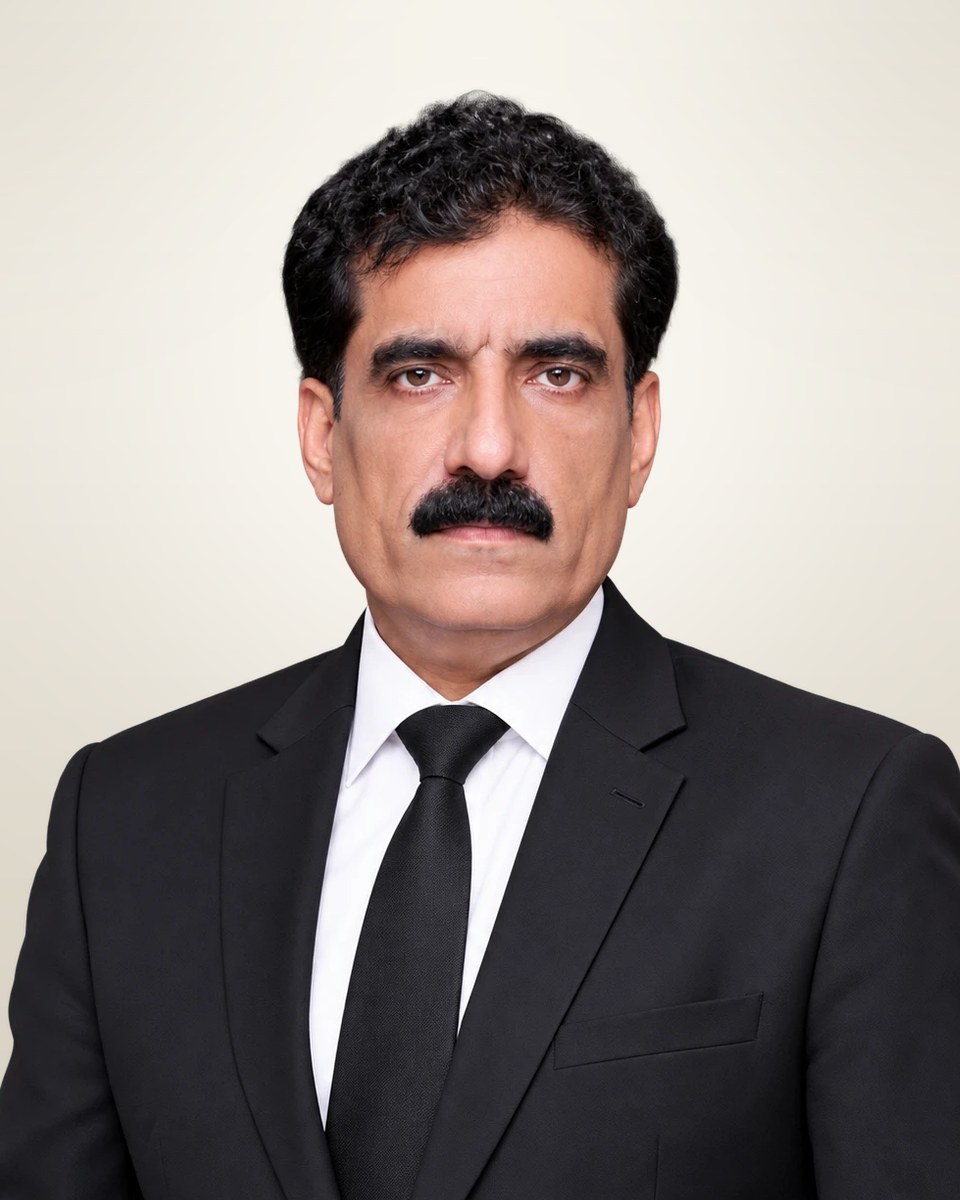
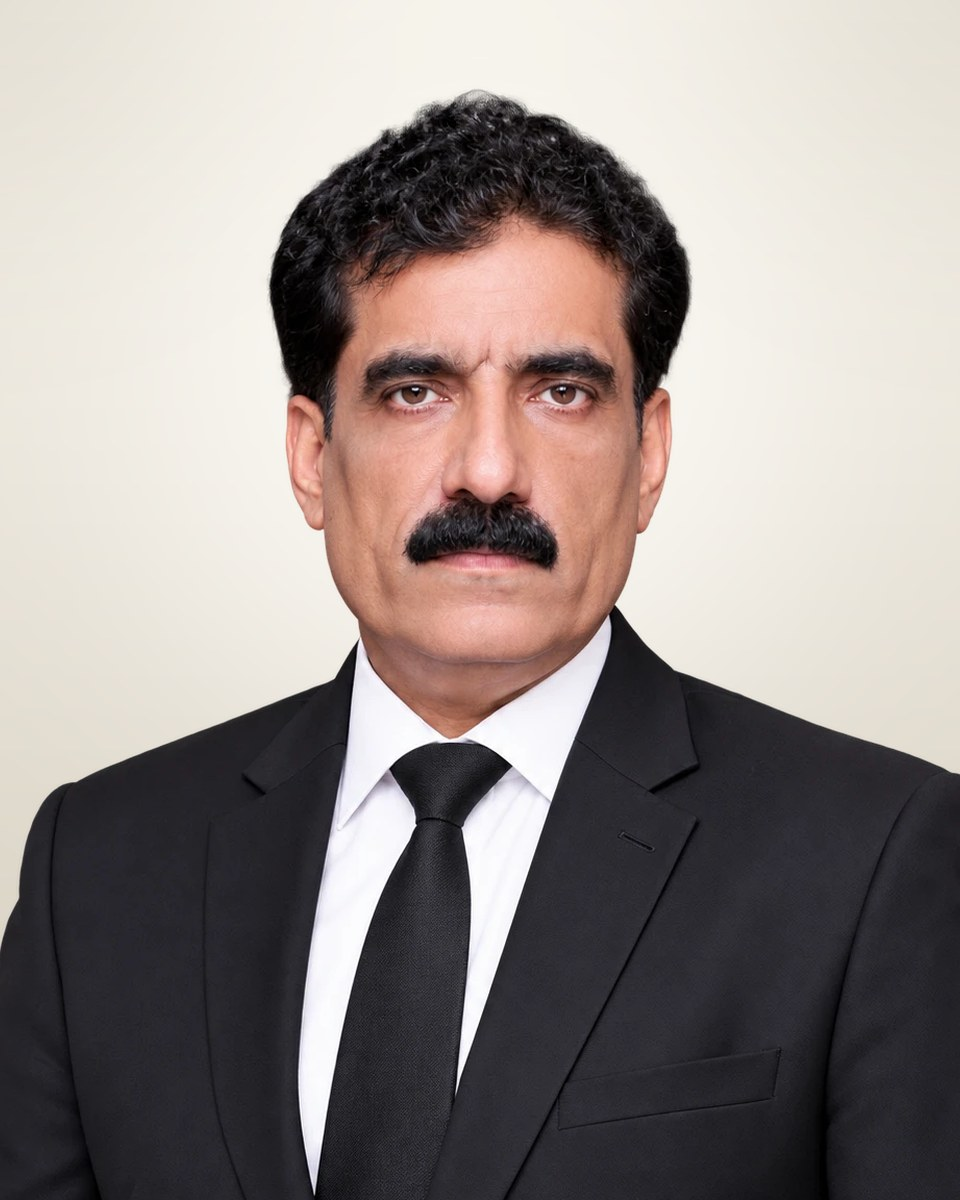
Even out portrait head size and add the pending advocate as a draft
Claude-Session: https://claude.ai/code/session_01M9TFTMe9SzZUtDGe2tVLiv

diff --git a/royal-vision-law/elementor-team-photos.php b/royal-vision-law/elementor-team-photos.php
@@ -1,8 +1,9 @@
 <?php
 /**
  * Team portraits for royalvisionlaw.com.
- * Sideloads the four advocate portraits in team-photos/ (720x900, one shared format),
- * creates or updates their Team members (position "Advocate"), lets the homepage show
+ * Sideloads the advocate studio portraits in team-photos/ (960x1200, one shared ivory
+ * backdrop made by team-photos/compose.py), creates or updates their Team members
+ * (position "Advocate"), replaces any earlier portrait, lets the homepage show
  * up to 8 members, and sets the team grid to three cards per row with aligned buttons.
  * Run after elementor-law-premium.php (needs sandbox/rvl-team.php active). Safe to re-run.
  */
@@ -17,26 +18,30 @@ $members = array(
 	array( 'Younis Amin', 'younis-amin', 4 ),
 	array( 'Shahid Amin', 'shahid-amin', 5 ),
 	array( 'Rana Tahir Mehmood', 'rana-tahir-mehmood', 6 ),
+	array( 'Advocate (name pending)', 'advocate-pending', 7, 'draft' ), // Publish once the name is set.
 );
 $out = array();
 foreach ( $members as $m ) {
 	list( $name, $slug, $order ) = $m;
-	$ex = get_posts( array( 'post_type' => 'rvl_team', 'title' => $name, 'post_status' => 'any', 'numberposts' => 1, 'fields' => 'ids' ) );
-	$id = wp_insert_post( array( 'ID' => $ex ? $ex[0] : 0, 'post_type' => 'rvl_team', 'post_status' => 'publish', 'post_title' => $name, 'menu_order' => $order ) );
+	$status = $m[3] ?? 'publish';
+	$ex     = get_posts( array( 'post_type' => 'rvl_team', 'title' => $name, 'post_status' => 'any', 'numberposts' => 1, 'fields' => 'ids' ) );
+	$id     = $ex ? $ex[0] : wp_insert_post( array( 'post_type' => 'rvl_team', 'post_status' => $status, 'post_title' => $name, 'menu_order' => $order ) );
 	update_post_meta( $id, 'rvl_position', 'Advocate' );
-	$src = $base . $slug . '.jpg';
+	$src = $base . $slug . '.jpg?v=studio-2'; // Bump the version when a portrait file changes.
+	$old = (int) get_post_thumbnail_id( $id );
 	$att = get_posts( array( 'post_type' => 'attachment', 'post_status' => 'inherit', 'meta_key' => '_rvl_source', 'meta_value' => $src, 'numberposts' => 1, 'fields' => 'ids' ) );
 	if ( $att ) {
 		$aid = $att[0];
 	} else {
 		$tmp = download_url( $src, 60 );
 		if ( is_wp_error( $tmp ) ) { $out[ $name ] = 'download failed: ' . $tmp->get_error_message(); continue; }
-		$aid = media_handle_sideload( array( 'name' => 'team-' . $slug . '.jpg', 'tmp_name' => $tmp ), $id, $name );
+		$aid = media_handle_sideload( array( 'name' => 'team-' . $slug . '-studio.jpg', 'tmp_name' => $tmp ), $id, $name );
 		if ( is_wp_error( $aid ) ) { @unlink( $tmp ); $out[ $name ] = 'sideload failed: ' . $aid->get_error_message(); continue; }
 		update_post_meta( $aid, '_rvl_source', $src );
 		update_post_meta( $aid, '_wp_attachment_image_alt', $name . ', Advocate, Royal Vision Law Associate' );
 	}
 	set_post_thumbnail( $id, $aid );
+	if ( $old && $old !== $aid && get_post_meta( $old, '_rvl_source', true ) ) { wp_delete_attachment( $old, true ); } // Only portraits this script added.
 	$out[ $name ] = array( 'member' => $id, 'photo' => $aid );
 }
 
@@ -70,6 +75,6 @@ $kit_doc->save( array( 'settings' => $kit_set ) );
 \Elementor\Plugin::$instance->files_manager->clear_cache();
 do_action( 'litespeed_purge_all' );
 
-$all = get_posts( array( 'post_type' => 'rvl_team', 'post_status' => 'publish', 'numberposts' => -1, 'orderby' => array( 'menu_order' => 'ASC' ) ) );
+$all = get_posts( array( 'post_type' => 'rvl_team', 'post_status' => array( 'publish', 'draft' ), 'numberposts' => -1, 'orderby' => array( 'menu_order' => 'ASC' ) ) );
 $out['team_order'] = array_map( function ( $p ) { return $p->menu_order . ' ' . $p->post_title . ( has_post_thumbnail( $p ) ? ' [photo]' : ' [initials]' ); }, $all );
 return $out;

diff --git a/royal-vision-law/team-photos/compose.py b/royal-vision-law/team-photos/compose.py
@@ -3,7 +3,7 @@ from PIL import Image, ImageDraw, ImageFilter, ImageEnhance
 W,H=960,1200
 src=sys.argv[1] + '/%d.webp'  # transparent studio cut-outs supplied by the firm
 # n: (slug, head_top, chin_y, face_cx)
-P={10:('arshad-mehmood-warraich',50,560,548),11:('younis-amin',60,520,540),12:('shahid-amin',44,490,565),
+P={10:('arshad-mehmood-warraich',50,530,548),11:('younis-amin',60,520,540),12:('shahid-amin',44,490,565),
    13:('rana-tahir-mehmood',16,600,490),14:('advocate-pending',47,470,560)}
 HEAD=500; TOP=96  # target head height (hair top->chin) and hair-top y on canvas
 def backdrop():
